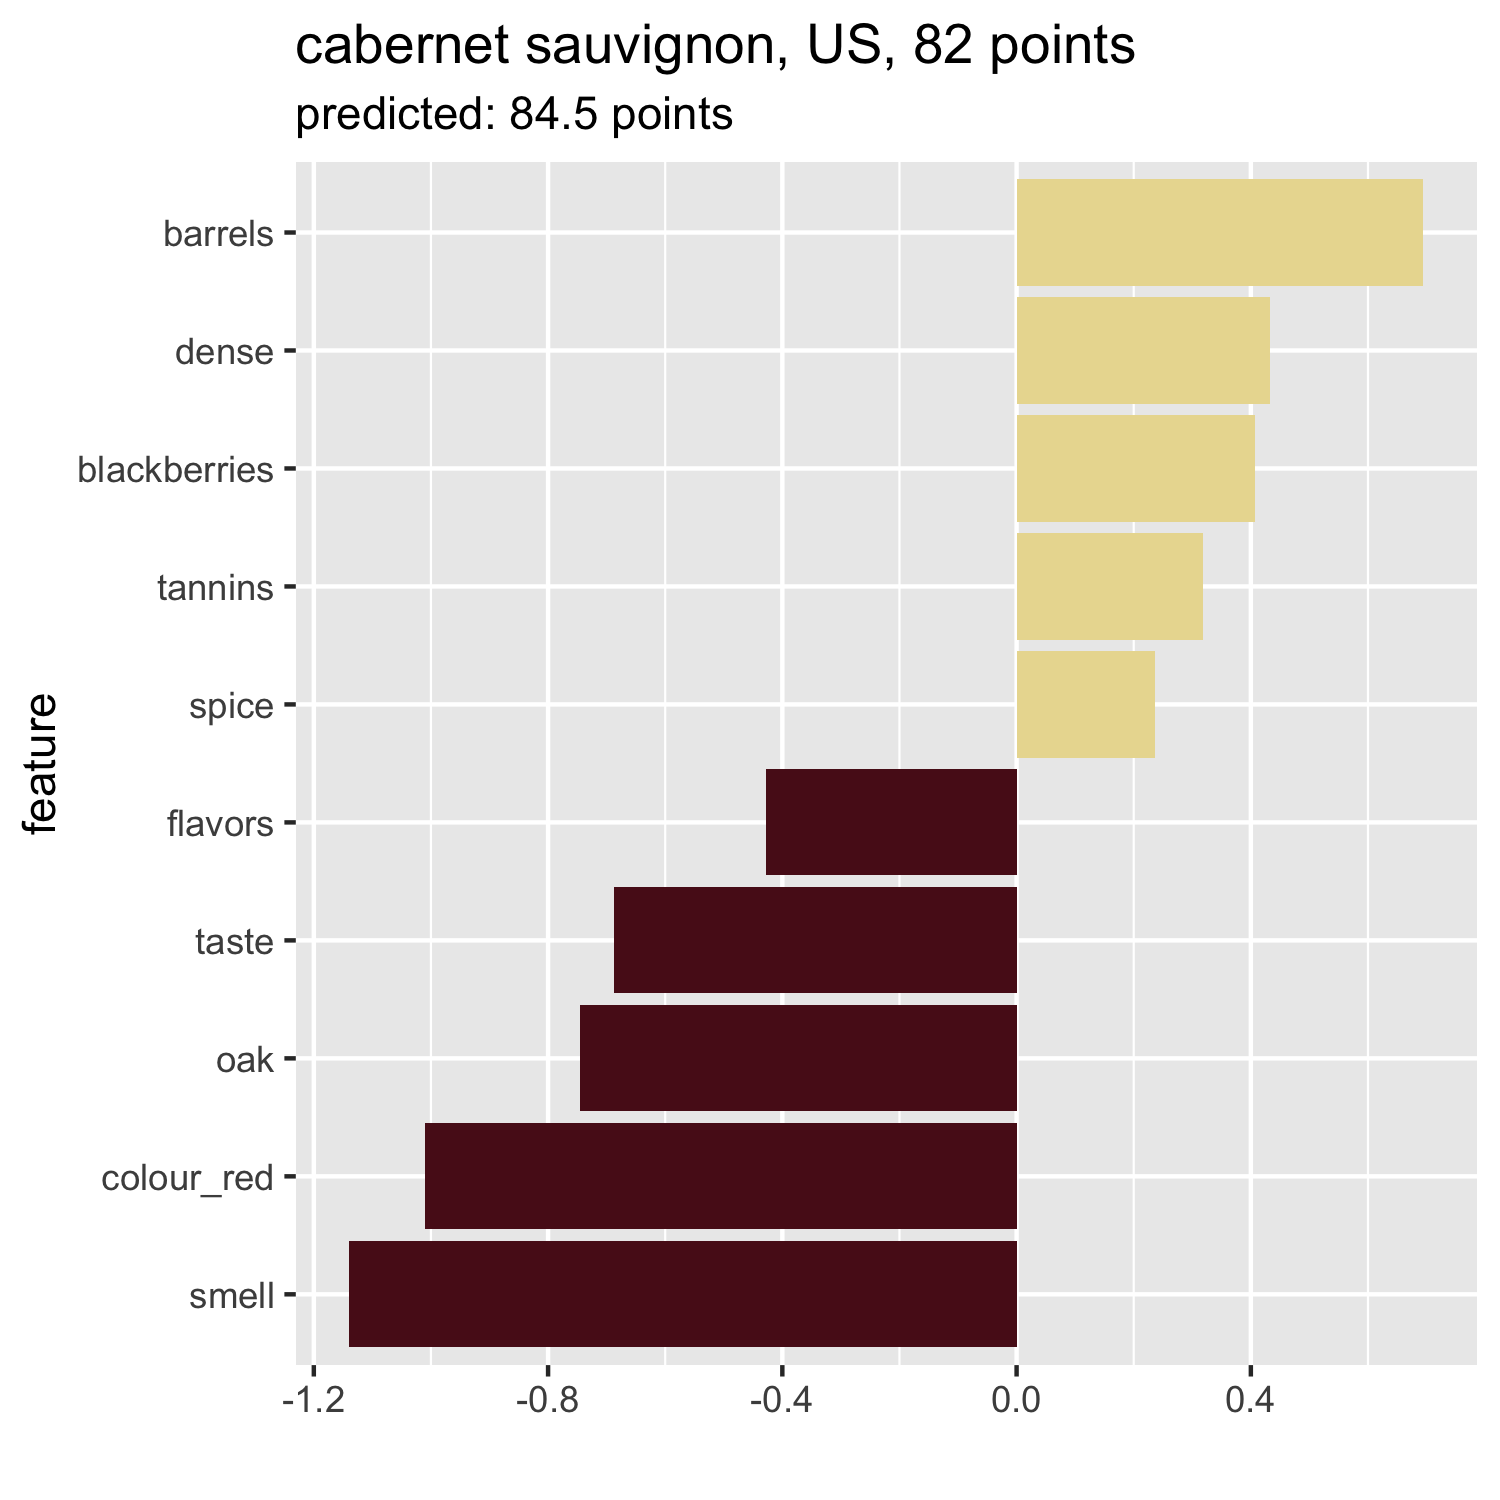
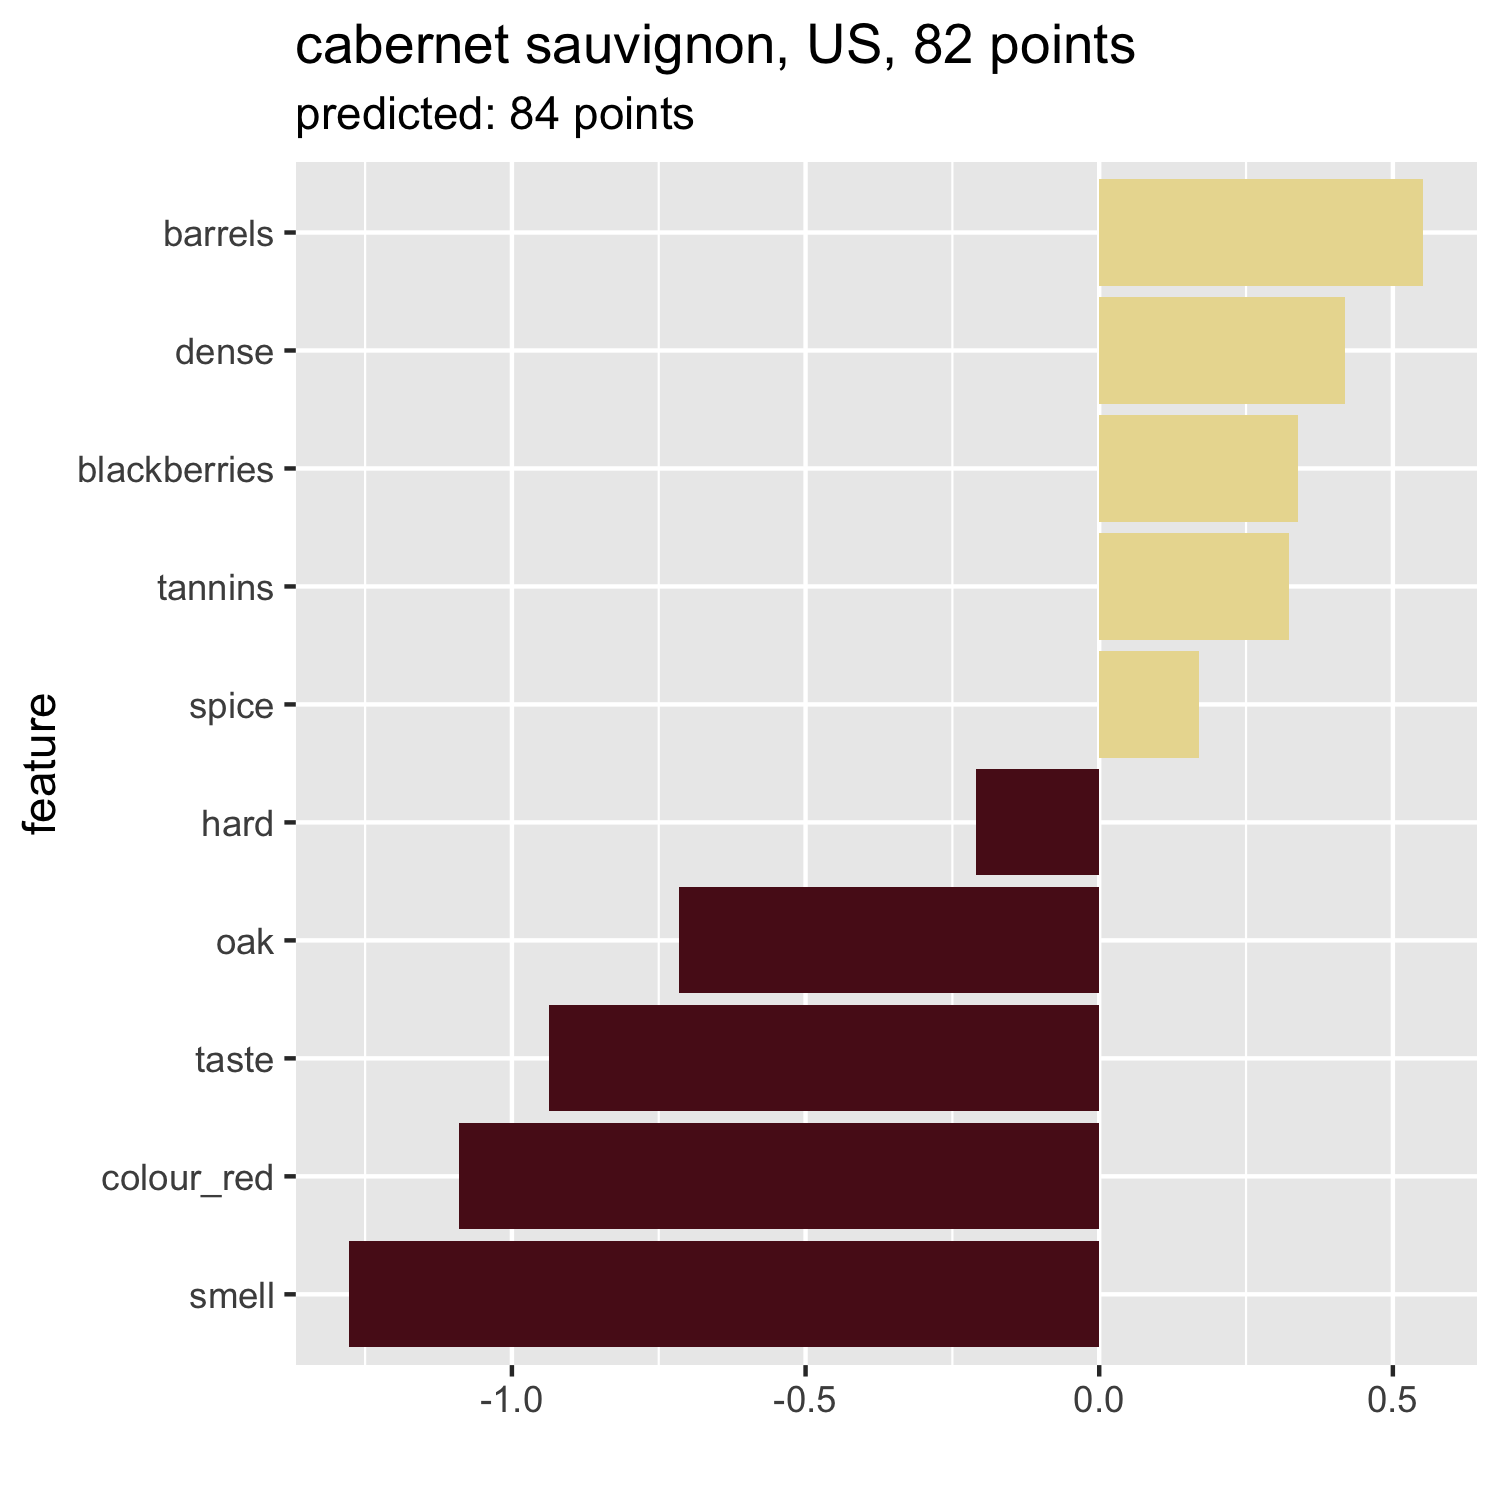
Trained explainer on whole set (test+train)

diff --git a/2019-04-10_melburn-wine.html b/2019-04-10_melburn-wine.html
@@ -507,7 +507,7 @@ vocabulary
 
 ```
 ## Number of docs: 103978 
-## 1152 stopwords: a, a's, able, about, above, according ... 
+## 1154 stopwords: a, a's, able, about, above, according ... 
 ## ngram_min = 1; ngram_max = 1 
 ## Vocabulary: 
 ##             term term_count doc_count
@@ -517,11 +517,11 @@ vocabulary
 ##   4:      brambl       1053      1049
 ##   5:      friend       1062      1051
 ##  ---                                 
+## 369:        acid      31702     30714
 ## 370:      finish      32433     32118
 ## 371:       aroma      32913     32473
 ## 372: colour_whit      37342     37342
-## 373:      flavor      56882     52689
-## 374:    colour_r      63681     63681
+## 373:    colour_r      63681     63681
 ```
 ]
 
@@ -554,7 +554,7 @@ dim(wine_train_dtm)
 ```
 
 ```
-## [1] 103978    374
+## [1] 103978    373
 ```
 
 ---
@@ -573,13 +573,13 @@ tail(as.matrix(wine_train_dtm)[1,], 21)
 ```
 
 ```
-##        nose         oak       berri         red       fresh        rich 
-##  0.00000000  0.00000000  0.14255269  0.13564472  0.00000000  0.00000000 
-##       spice        note         dri       black        ripe      tannin 
-##  0.00000000  0.00000000  0.00000000  0.00000000  0.11145319  0.10012731 
-##      cherri       drink       palat        acid      finish       aroma 
-##  0.00000000  0.00000000  0.00000000  0.08710201  0.00000000  0.00000000 
-## colour_whit      flavor    colour_r 
+##        plum        nose         oak       berri         red       fresh 
+##  0.00000000  0.00000000  0.00000000  0.14255269  0.13564472  0.00000000 
+##        rich       spice        note         dri       black        ripe 
+##  0.00000000  0.00000000  0.00000000  0.00000000  0.00000000  0.11145319 
+##      tannin      cherri       drink       palat        acid      finish 
+##  0.10012731  0.00000000  0.00000000  0.00000000  0.08710201  0.00000000 
+##       aroma colour_whit    colour_r 
 ##  0.00000000  0.00000000  0.03501981
 ```
 
@@ -651,7 +651,7 @@ class: inverse
 
 ```r
 wine_explainer &lt;- lime::lime(
-  wine_train$description,
+  wine$description,
   xgb,
   preprocess = map_to_dtm
 )
